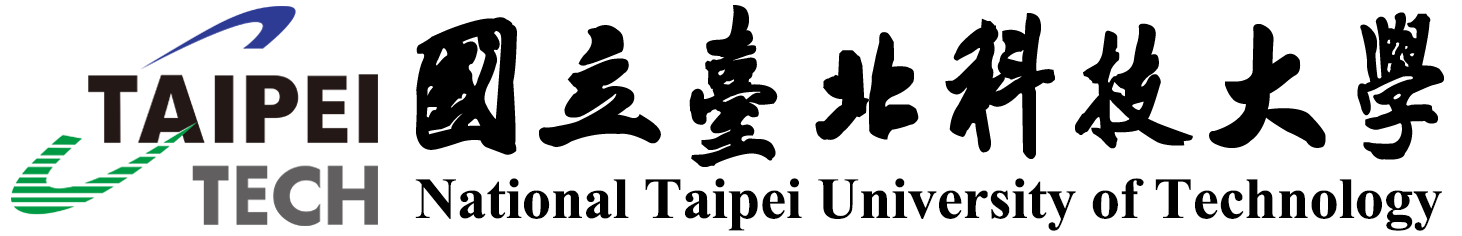
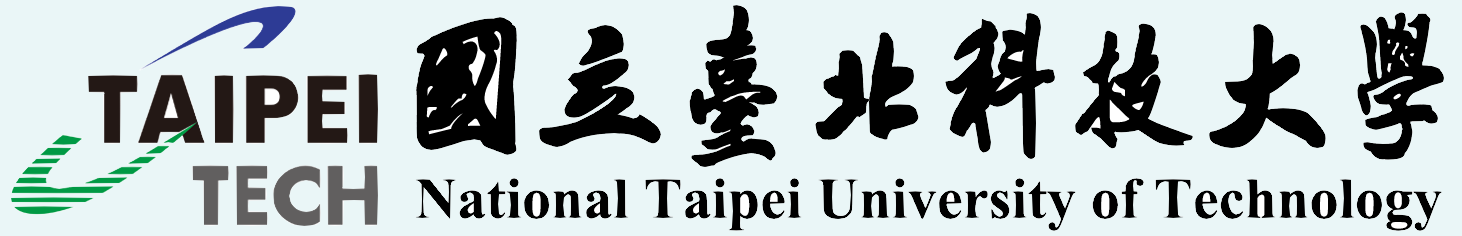
Add files via upload

diff --git a/style/main_style.css b/style/main_style.css
@@ -1,8 +1,9 @@
 body
 {
-    width:1280px;
+    max-width: 100%;
     margin:0px auto;
     padding:0px;
+    background-color: rgb(234, 246, 247);
 }
 /* template */
 .horizontal_ul
@@ -25,10 +26,11 @@ body
 /*top*/
 .top
 {
+    max-width:1280px;
     display: flex;
     justify-content: space-between;
     padding: 0px;
-    margin:0px;
+    margin: auto;
     width: 100%;
     height: auto;
 }
@@ -44,17 +46,23 @@ body
 
 .school_logo
 {
-    margin-left:30px;
-    padding-top: 15px; 
+    margin-top:15px;
+    margin-left:0px;
     width: 70%;
+    
 }
 
 .top_menu
 {
+    font-family:Microsoft JhengHei;
+    font-weight: bold;
     text-align: end;
-    margin-right: 30px;
 }
-
+.topline{
+    height: 14px;
+    width: 1px;
+    background:#003377;
+}
 .top_ul
 {
     margin-bottom: 0px;
@@ -71,55 +79,56 @@ body
     height: 100%;
 }
 
-.top_ul div
-{
-    width: 90px;
-    height: 25px;
-    border: 1px black solid;
-    border-bottom-width: 2px;
-    border-right-width: 2px;
-    background-color:azure;
-    text-align: center;
-    margin-right: -5px;
-}
 
-.top_item_language ul div
+.top_item_language ul 
 {
-    width: 80px;
-    height: 25px;
-    border: 2px black solid;
-    background-color:azure;
-    text-align: center;
-    margin-right: 10px;
+    margin-top:20px;
+    margin-right: 0px;
 }
 .top_item_language ul div li a
 {
-    font-size: 18px;
-    font-weight: bold;
+    color: #003377;
+    font-size: 14px;   
 }
-.top_ul div:hover
+.top_item_language ul div li a:hover
 {
-    background-color:rgba(57, 221, 221, 0.842);
+    color: #000000;
 }
+.top_item_menu ul div li a{
+    color: #000000;
+    margin-top:5px; 
+    font-size: 16px;
+    padding-right: 25px;   
+}
+.top_item_menu ul div li a:hover
+{
+    color: #003377;
+}
+
+
+
 /* main_img */
 .main_img
 {
-    width: 100%;
+    width:1280px;
+    display: flex;
+    justify-content: space-between;
+    margin: auto;
     height: 600px;
 }
 /* main_article */
 .main
 {
+    max-width:1280px;
+    margin: auto;
     padding-top: 30px;
     padding-bottom: 30px;
-    margin-top:-4px;
-    background-color: rgb(234, 246, 247);
 }
 .main_article
 {
     display: flex;
     justify-content: space-between;
-    margin:0px 60px;
+    margin:0px 0px;
     
     
 }
@@ -136,22 +145,25 @@ body
 .main_left_content
 {
     height: 620px;
-    border: 2px black solid;
+    width: 1100px;
+    background-color:rgb(208, 240, 255);
 }
 .main_left_ul
 {
     margin: 0px;
-    margin-left: 30px;
+    width: 1100px;
+    background-color:rgb(181, 232, 255);
 }
 .main_left_ul div
 {
-    width: 70px;
-    height: 25px;
-    border: 1px black solid;
-    border-bottom-width: 2px;
-    background-color:rgb(208, 240, 255);
+    width: 90px;
+    height: 30px;
+    font-size: 18px;
+    margin-top: 2px;
+    font-family:Microsoft JhengHei;
+    padding-right: 25px; 
+    font-weight: bold;
     text-align: center;
-    margin: -2px;
 }
 .main_left_ul div:hover
 {
@@ -159,14 +171,13 @@ body
 }
 .main_right
 {
-    width: 30%;
     text-align: end;
 }
 .main_right_ul
 {
     list-style: none;
     margin: 0px;
-    margin-top: 21px;
+    margin-top: 30px;
 }
 .main_right_ul li
 {

diff --git a/index.html b/index.html
@@ -21,7 +21,8 @@
                 <div class="top_item_language top_menu">
                     <ul class="top_ul horizontal_ul">
                         <div><li><a href="">English</a></li></div>
-                        <div><li><a href="">中文</a></li></div>
+                        <div class="topline"></div>
+                        <div><li><a href="">繁體中文</a></li></div>
                     </ul>
                 </div>
 
@@ -63,10 +64,10 @@
 
                 <div class="main_right main_item">
                     <ul class="main_right_ul">
-                        <li><a href=""><img src="img/hyperlink_img1.png" alt="SDRC" /></a></li>
-                        <li><a href=""><img src="img/hyperlink_img2.png" alt="Open_Webmail" /></a></li>
-                        <li><a href=""><img src="img/hyperlink_img3.png" alt="Taipei_Tech" /></a> </li>
-                        <li><a href=""><img src="img/hyperlink_img4.png" alt="???" /></a></li>
+                        <li><a href="https://csie.ntut.edu.tw/cgi-bin/openwebmail/openwebmail.pl"><img src="img/hyperlink_img1.png" alt="SDRC" /></a></li>
+                        <li><a href="https://csie.ntut.edu.tw/sdrc/"><img src="img/hyperlink_img2.png" alt="Open_Webmail" /></a></li>
+                        <li><a href="https://www.ntut.edu.tw/"><img src="img/hyperlink_img3.png" alt="Taipei_Tech" /></a> </li>
+                        <li><a href="https://lib.ntut.edu.tw//mp.asp?mp=100"><img src="img/hyperlink_img4.png" alt="???" /></a></li>
                     </ul>
                 </div>
 
